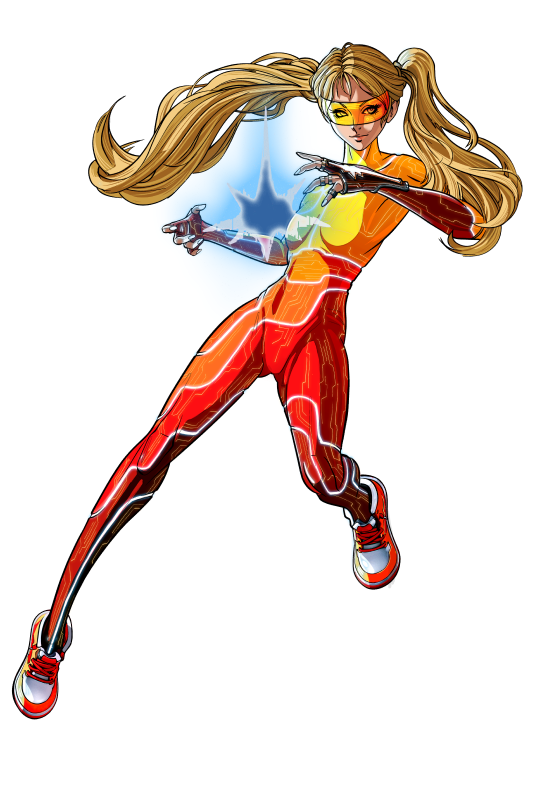
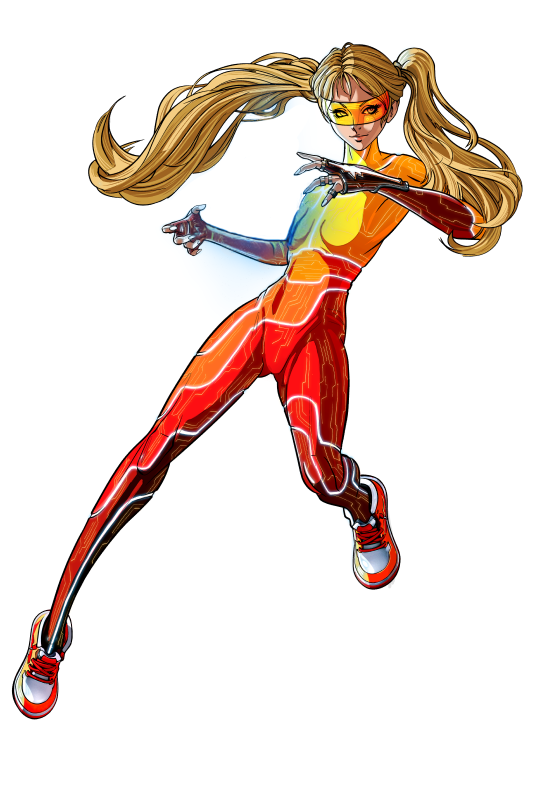
feat: add ANIMATION

Changed region(s): [[0.329, 0.1206, 0.628, 0.3317]]

diff --git a/index.css b/index.css
@@ -2835,9 +2835,7 @@ body {
     margin-top: -15px;
   }
 
-  .major__slider {
-    top: -30px;
-  }
+
 }
 
 @media (max-width: 1000px) {
@@ -3738,31 +3736,49 @@ body {
   right: -2px;
   z-index: 2;
 }
-.slide1 .slide1-block .hero1-star {
+.slide1 .slide1-block .hero1-zarya2 {
   position: absolute;
-  top: 83px;
-  right: 182px;
+  top: 0px;
+  right: -2px;
   z-index: 4;
+  opacity: 0;
+  animation: fade11 2s ease-in-out infinite;
 }
-.slide1 .slide1-block .hero1-star-main {
+.slide1 .slide1-block .hero1-zarya3 {
+
   position: absolute;
-  top: 83px;
-  right: 182px;
+  top: 0px;
+  right: -2px;
   z-index: 5;
-  animation: fade1 4s ease-in-out infinite;
+  opacity: 0;
+  animation: fade12 2s ease-in-out infinite;
 }
-@keyframes fade1 {
+@keyframes fade11 {
   0% {
     opacity: 0;
-    transform: scale(1);
   }
-  50% {
+  30% {
     opacity: 1;
-    transform: scale(1.3);
+  }
+  60% {
+    opacity: 0;
   }
   100% {
     opacity: 0;
-    transform: scale(1);
+  }
+}
+@keyframes fade12 {
+  0% {
+    opacity: 0;
+  }
+  30% {
+    opacity: 0;
+  }
+  70% {
+    opacity: 1;
+  }
+  100% {
+    opacity: 0;
   }
 }
 @media (max-width: 1750px) {
@@ -3781,33 +3797,20 @@ body {
     right: 40px !important;
     width: 400px !important;
     top: -29px !important;
+    z-index: 5;
   }
-  .slide1 .slide1-block .hero1-star {
-    top: 8px;
-    right: 156px;
-    position: absolute;
-    transform: scale(0.8);
+  .slide1 .slide1-block .hero1-zarya2 {
+    right: 40px !important;
+    width: 400px !important;
+    top: -29px !important;
+    z-index: 6;
+
   }
-  .slide1 .slide1-block .hero1-star-main {
-    position: absolute;
-    top: 8px;
-    right: 156px;
-    z-index: 4;
-    transform: scale(0.8);
-  }
-  @keyframes fade1 {
-    0% {
-      opacity: 0;
-      transform: scale(0.8);
-    }
-    50% {
-      opacity: 1;
-      transform: scale(1.04);
-    }
-    100% {
-      opacity: 0;
-      transform: scale(0.8);
-    }
+  .slide1 .slide1-block .hero1-zarya3 {
+    right: 40px !important;
+    width: 400px !important;
+    top: -29px !important;
+    z-index: 7;
   }
 }
 @media (max-width: 600px) {
@@ -3822,31 +3825,16 @@ body {
     width: 260px !important;
     top: 69px !important;
   }
-  .slide1 .slide1-block .hero1-star {
-    top: 56px;
-    right: 105px;
-    position: absolute;
-    transform: scale(0.5);
+  .slide1 .slide1-block .hero1-zarya2 {
+    left: -19px !important;
+    width: 260px !important;
+    top: 69px !important;
+
   }
-  .slide1 .slide1-block .hero1-star-main {
-    top: 56px;
-    right: 105px;
-    position: absolute;
-    transform: scale(0.5);
-  }
-  @keyframes fade1 {
-    0% {
-      opacity: 0;
-      transform: scale(0.5);
-    }
-    50% {
-      opacity: 1;
-      transform: scale(0.65);
-    }
-    100% {
-      opacity: 0;
-      transform: scale(0.5);
-    }
+  .slide1 .slide1-block .hero1-zarya3 {
+    left: -19px !important;
+    width: 260px !important;
+    top: 69px !important;
   }
 }
 
@@ -3989,7 +3977,22 @@ body {
   0% {
     opacity: 0;
   }
+  3% {
+    opacity: 1;
+  }
+  6% {
+    opacity: 0;
+  }
+  9% {
+    opacity: 1;
+  }
+  12% {
+    opacity: 0;
+  }
   50% {
+    opacity: 1;
+  }
+  75% {
     opacity: 1;
   }
   100% {
@@ -4165,10 +4168,10 @@ body {
   0% {
     opacity: 0;
   }
-  8% {
+  1% {
     opacity: 1;
   }
-  32% {
+  12% {
     opacity: 0;
   }
   100% {
@@ -4210,22 +4213,22 @@ body {
   .slide5 .slide5-block .hero5-main {
     right: 15px !important;
     width: 450px !important;
-    top: 31px !important;
+    top: 74px !important;
   }
   .slide5 .slide5-block .hero5-left {
     right: 46px !important;
     width: 400px !important;
-    top: 97px !important;
+    top: 132px !important;
   }
   .slide5 .slide5-block .hero5-right {
     right: 40px !important;
     width: 400px !important;
-    top: 43px !important;
+    top: 74px !important;
   }
   .slide5 .slide5-block .hero5-fire {
-    right: 216px !important;
-    width: 250px !important;
-    top: 202px !important;
+    right: 229px !important;
+    width: 240px !important;
+    top: 242px !important;
   }
 }
 @media (max-width: 600px) {
@@ -4281,7 +4284,7 @@ body {
   top: 55px;
   right: 44px;
   z-index: 6;
-  animation: fade6 6s ease-in-out infinite;
+  animation: fade6 5s ease-in-out infinite;
 }
 @keyframes fade6 {
   0% {
@@ -4307,12 +4310,12 @@ body {
     right: 82px !important;
   }
   .slide6 .slide6-block .hero6-main {
-    right: 90px !important;
-    width: 310px !important;
-    top: -43px !important;
+    right: 103px !important;
+    width: 300px !important;
+    top: -41px !important;
   }
   .slide6 .slide6-block .hero6-detail {
-    right: 66px !important;
+    right: 77px !important;
     width: 150px;
     height: 150px;
     top: 6px !important;
@@ -4361,15 +4364,14 @@ body {
   z-index: 5;
   top: 172px;
   right: 114px;
-  animation: fade7 6s ease infinite;
+  animation: fade7 2.5s ease infinite;
 }
 @keyframes fade7 {
   0% {
     opacity: 0;
   }
-  20% {
+  1% {
     opacity: 1;
-    transform: scale(1);
   }
   40% {
     opacity: 0;
@@ -4440,25 +4442,27 @@ body {
   top: 0px;
   right: 35px;
   z-index: 5;
-  animation: fade8 10s ease-in-out infinite;
+  animation: fade8 5s ease-out infinite;
 }
 @keyframes fade8 {
   0% {
     opacity: 0;
-    transform: translateY(900px);
+    transform: translateY(800px);
   }
-  15% {
+  20% {
     opacity: 1;
   }
-  40% {
+  70% {
     opacity: 1;
+    transform: translateY(0px);
   }
-  50% {
-    opacity: 0;
-    transform: translateY(-80px);
+  75% {
+    opacity: 1;
+    transform: translateY(0px);
   }
   100% {
     opacity: 0;
+    transform: translateY(-50px);
   }
 }
 @media (max-width: 1750px) {
@@ -4485,18 +4489,20 @@ body {
       opacity: 0;
       transform: translateY(400px);
     }
-    15% {
+    20% {
       opacity: 1;
     }
-    40% {
+    70% {
       opacity: 1;
+      transform: translateY(0px);
     }
-    50% {
-      opacity: 0;
-      transform: translateY(-20px);
+    75% {
+      opacity: 1;
+      transform: translateY(0px);
     }
     100% {
       opacity: 0;
+      transform: translateY(-20px);
     }
   }
 }
@@ -4523,18 +4529,20 @@ body {
       opacity: 0;
       transform: translateY(300px);
     }
-    15% {
+    20% {
       opacity: 1;
     }
-    40% {
+    70% {
       opacity: 1;
+      transform: translateY(80px);
     }
-    50% {
-      opacity: 0;
-      transform: translateY(50px);
+    75% {
+      opacity: 1;
+      transform: translateY(80px);
     }
     100% {
       opacity: 0;
+      transform: translateY(50px);
     }
   }
 }

diff --git a/index.html b/index.html
@@ -96,8 +96,8 @@
                 <div class="slide1-block"> 
                   <img class="hero1-back" src="./img/fon_slide1.svg" alt="фоновое изображение"> 
                   <img class="hero1-main" src="./img/slide1.png" alt="заря"> 
-                  <img class="hero1-star" src="./img/star-main.png" alt="звезда"> 
-                  <img class="hero1-star-main" src="./img/star-main.png" alt="звезда"> 
+                  <img class="hero1-zarya2" src="./img/zarya2.png" alt="ЗАРЯ 2"> 
+                  <img class="hero1-zarya3" src="./img/zarya3.png" alt="ЗАРЯ 3"> 
                 </div> 
               </div> 
               <div class="major__slide slide2"> 

diff --git a/index.js b/index.js
@@ -2,8 +2,8 @@ $('.major__slider-wrapper').slick({
   speed: 1000,
   fade: true,
   cssEase: 'linear',
-  autoplay: true,
-      autoplaySpeed: 3000,
+  // autoplay: true,
+  //     autoplaySpeed: 5000,
   prevArrow: $('.major__prev'),
   nextArrow: $('.major__next'),
 });
